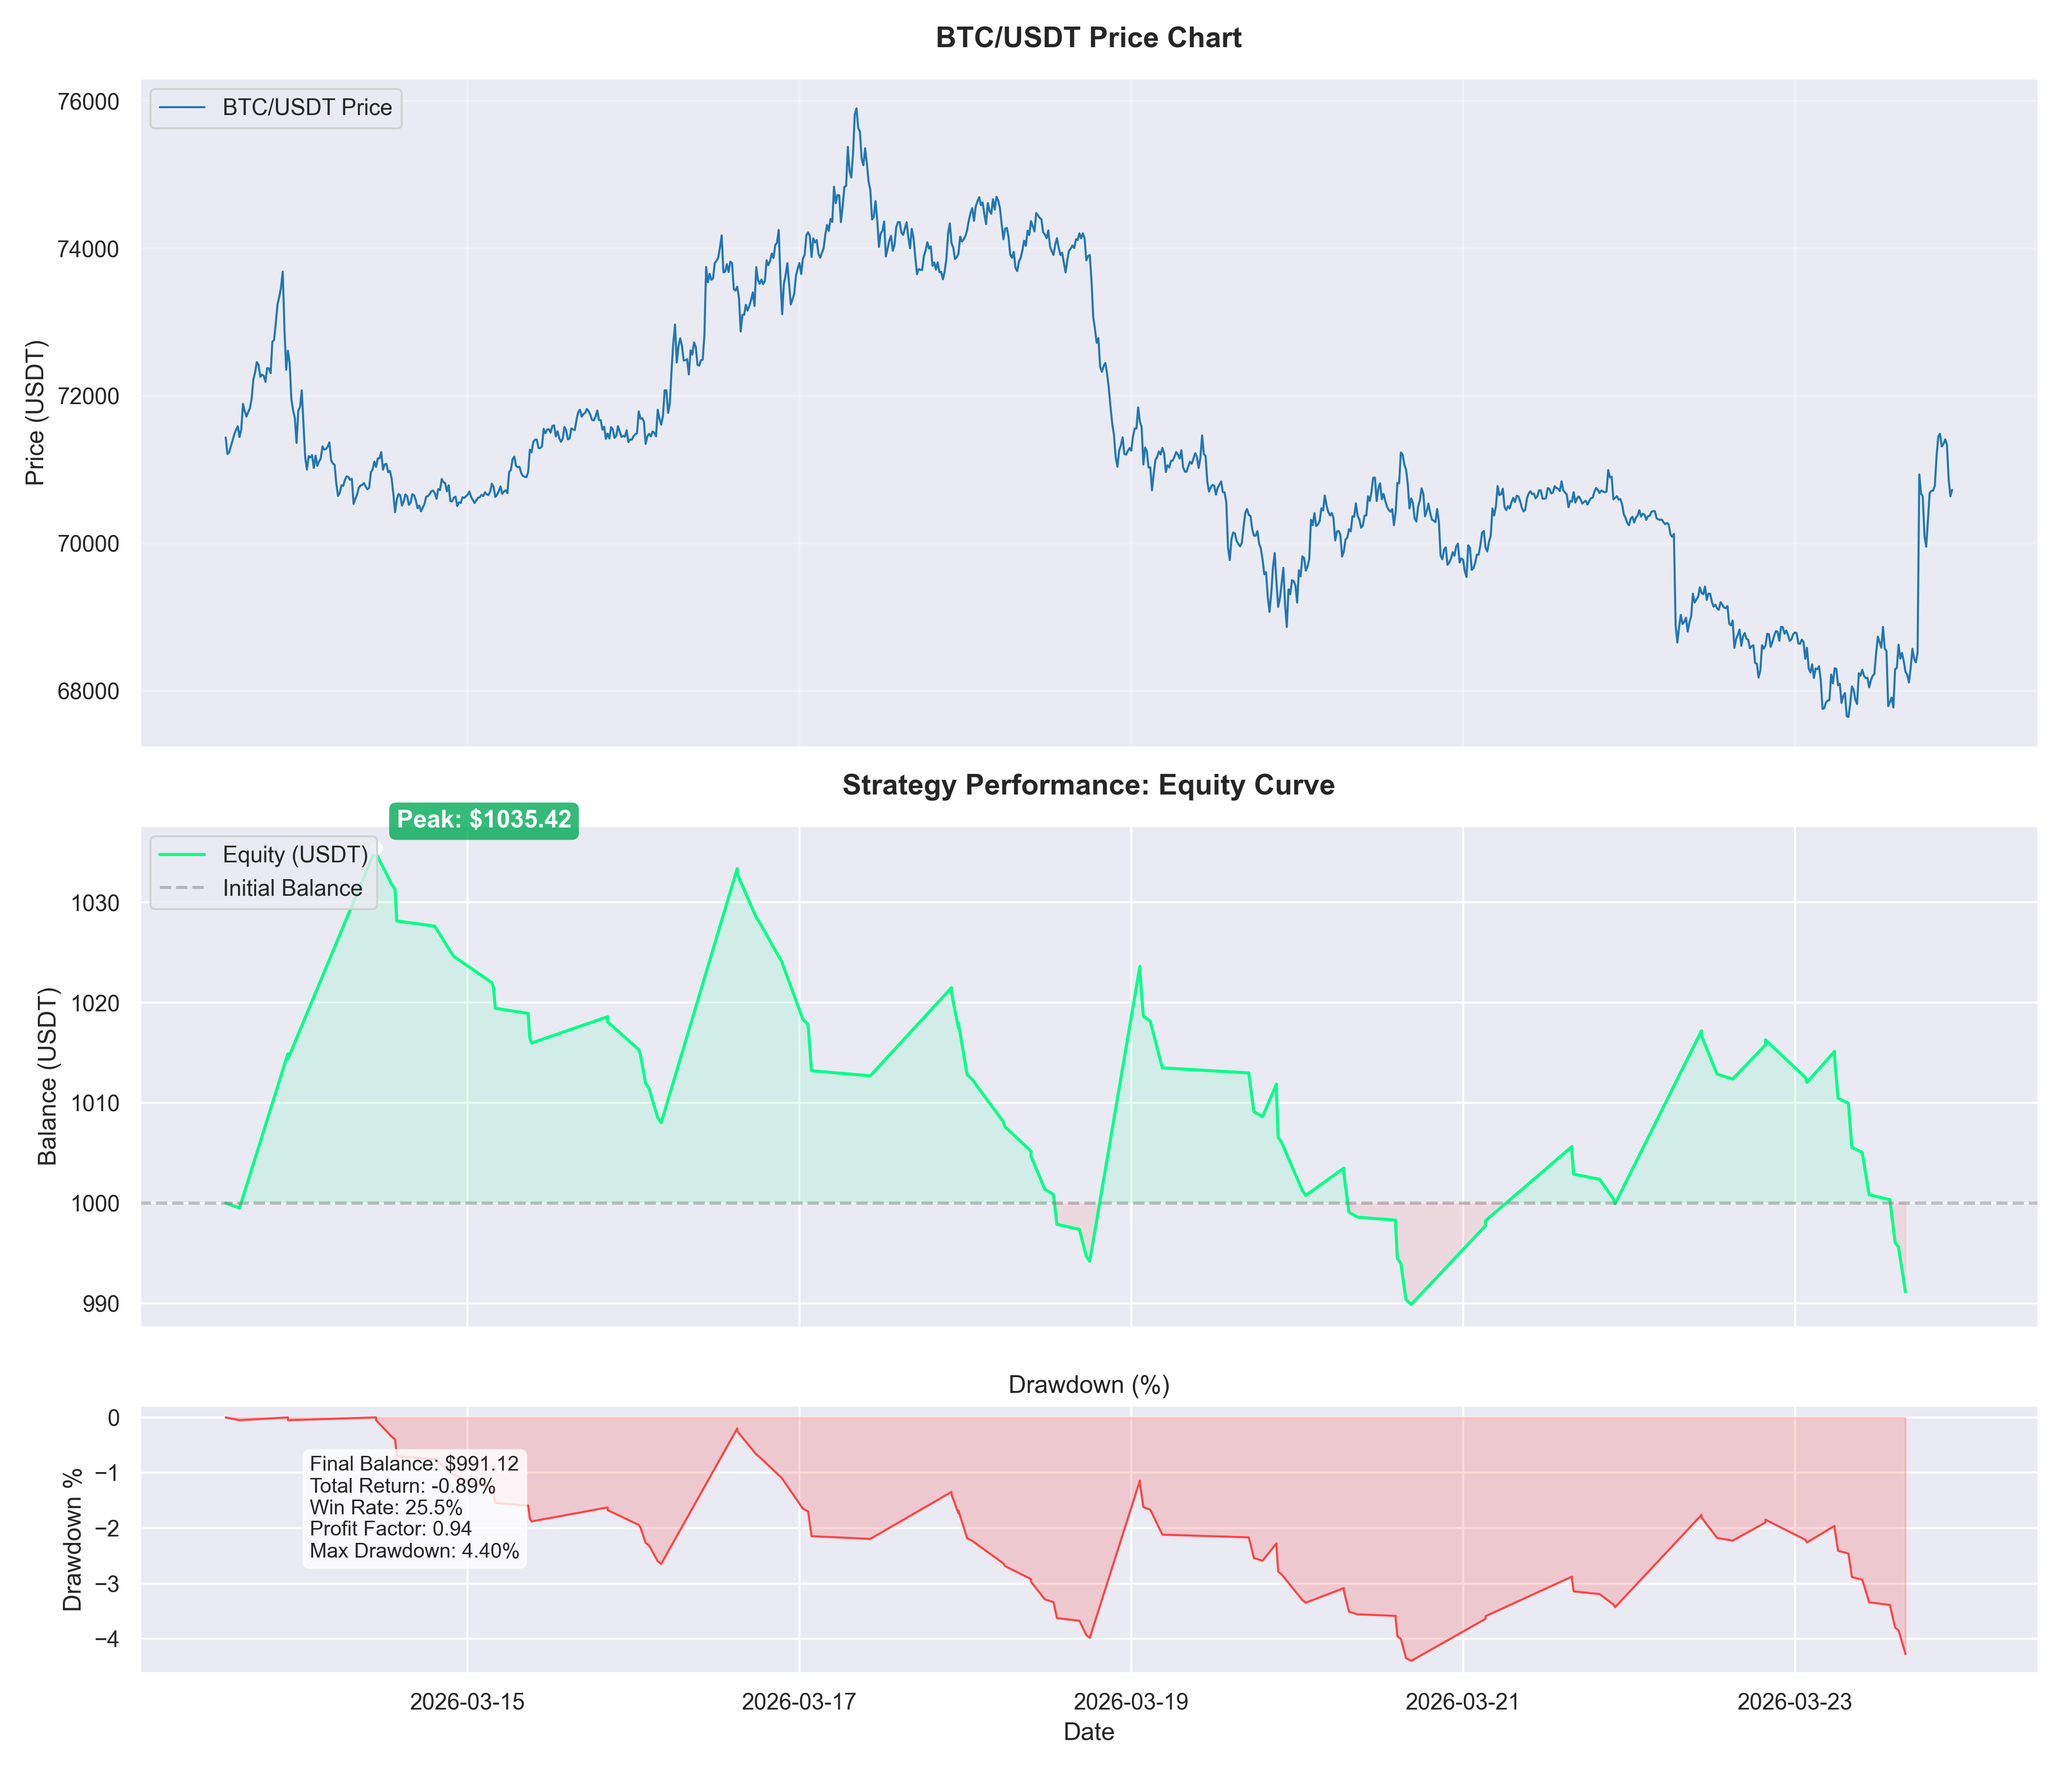
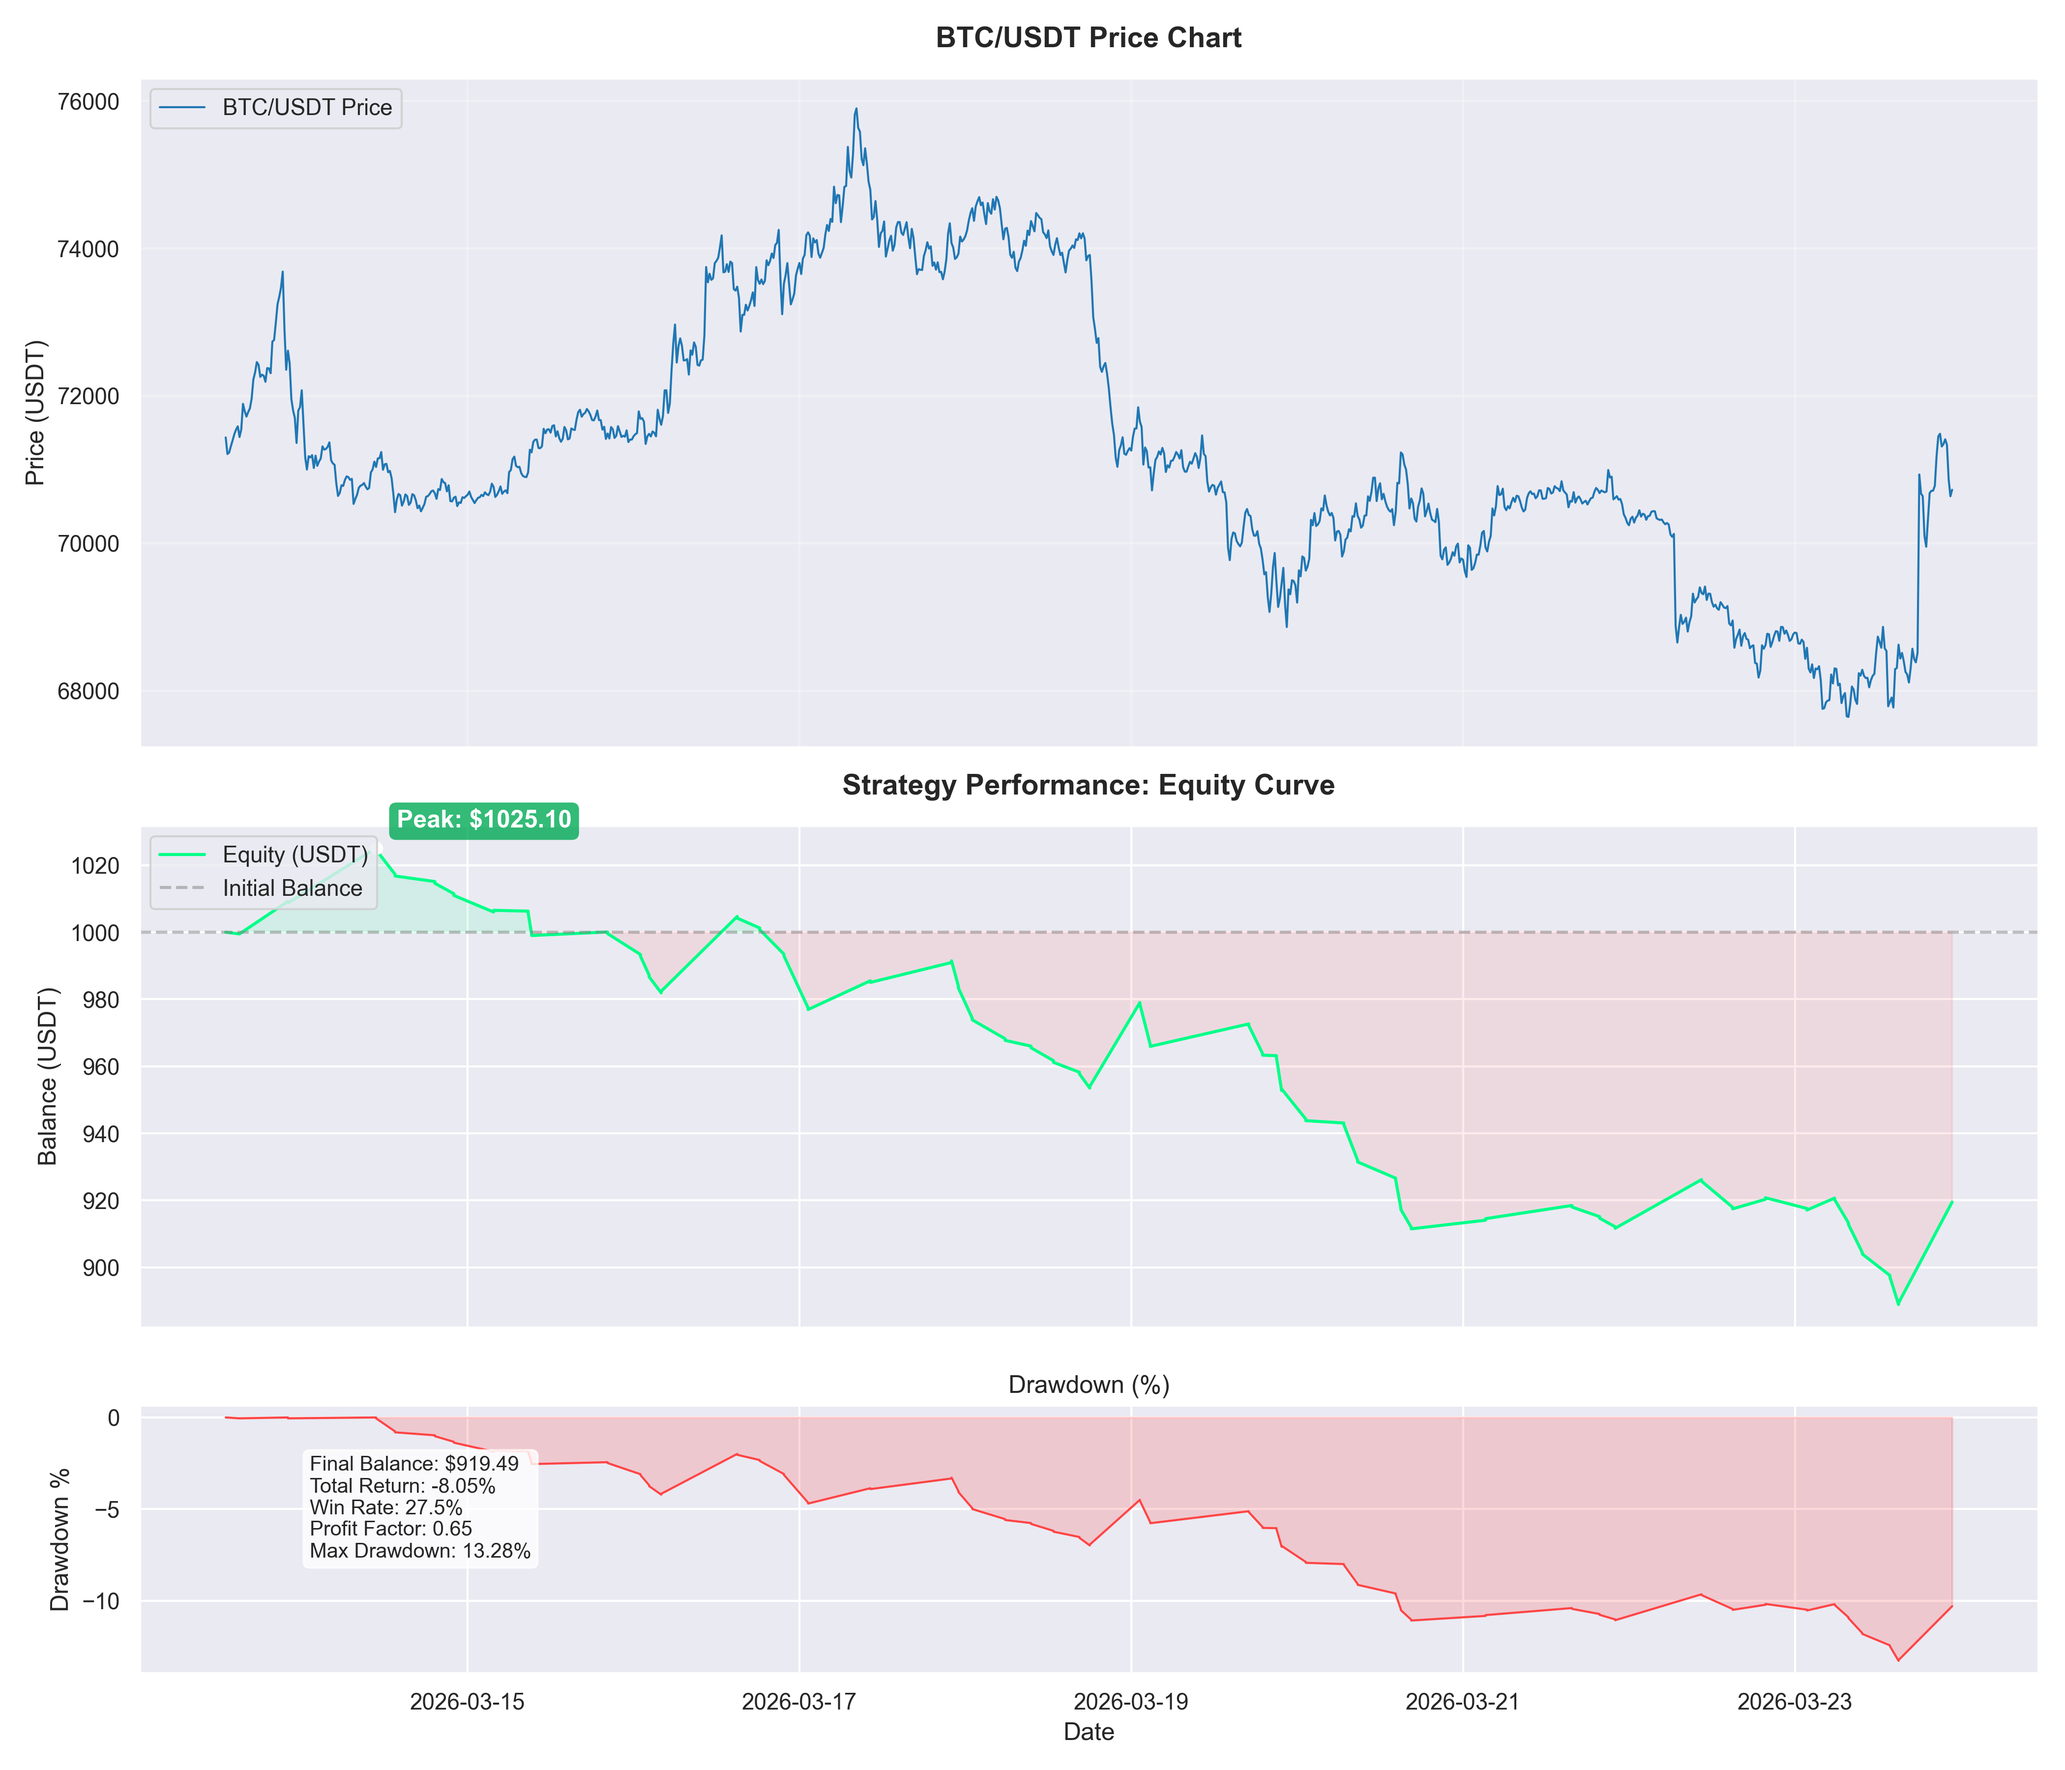
feat: Implement a backtesting module for Binance futures, including data loading, trade simulation, and performance reporting, with an updated gitignore.

diff --git a/module/backtest/simulator.py b/module/backtest/simulator.py
@@ -135,7 +135,7 @@ class Simulator:
             # Signal candle = arr[i-1] (last CLOSED candle)
             # Execution price = close of that same candle — mirrors live bot
             # which calls open_position(close_price) where close_price = df.iloc[-2]["close"]
-            signal_close = arr_close[i - 1]
+            signal_close = arr_close[i - 2]
             exec_price = signal_close  # enter/exit at signal candle close
             exec_time = arr_timestamp[i - 1]  # timestamp of the signal candle
 
@@ -188,18 +188,23 @@ class Simulator:
             # 1. TAKE PROFIT CHECK (candle-close price)
             # ----------------------------------------------------------
             if self.use_takeprofit and position_amt != 0:
-                tp_hit = (
-                    (position_amt > 0 and signal_close >= take_profit_price) or
-                    (position_amt < 0 and signal_close <= take_profit_price)
+                tp_hit = (position_amt > 0 and signal_close >= take_profit_price) or (
+                    position_amt < 0 and signal_close <= take_profit_price
                 )
                 if tp_hit:
                     pnl = (
-                        self._close_long_pnl(take_profit_price, entry_price, position_amt)
+                        self._close_long_pnl(
+                            take_profit_price, entry_price, position_amt
+                        )
                         if position_amt > 0
-                        else self._close_short_pnl(take_profit_price, entry_price, position_amt)
+                        else self._close_short_pnl(
+                            take_profit_price, entry_price, position_amt
+                        )
                     )
                     balance += pnl
-                    type_str = "TAKE_PROFIT_LONG" if position_amt > 0 else "TAKE_PROFIT_SHORT"
+                    type_str = (
+                        "TAKE_PROFIT_LONG" if position_amt > 0 else "TAKE_PROFIT_SHORT"
+                    )
                     trades.append(
                         {
                             "time": exec_time,
@@ -215,7 +220,11 @@ class Simulator:
             # ----------------------------------------------------------
             # 2. STOP LOSS CHECK (candle-close price)
             # ----------------------------------------------------------
-            if self.use_stoploss and position_amt > 0 and signal_close <= stop_loss_price:
+            if (
+                self.use_stoploss
+                and position_amt > 0
+                and signal_close <= stop_loss_price
+            ):
                 pnl = self._close_long_pnl(stop_loss_price, entry_price, position_amt)
                 balance += pnl
                 type_str = (
@@ -233,7 +242,11 @@ class Simulator:
                 is_breakeven_activated = False
                 continue
 
-            elif self.use_stoploss and position_amt < 0 and signal_close >= stop_loss_price:
+            elif (
+                self.use_stoploss
+                and position_amt < 0
+                and signal_close >= stop_loss_price
+            ):
                 pnl = self._close_short_pnl(stop_loss_price, entry_price, position_amt)
                 balance += pnl
                 type_str = (
@@ -293,7 +306,8 @@ class Simulator:
                 # the same close price (ST flipped, open SHORT right away)
                 # ----------------------------------------------------------
                 rev_signal, rev_size, _ = evaluate_signal(
-                    df_window, 0,
+                    df_window,
+                    0,
                     use_ema_filter=self.use_ema_filter,
                     use_volume_filter=self.use_volume_filter,
                     use_htf_filter=self.use_htf_filter,
@@ -325,7 +339,8 @@ class Simulator:
                 # the same close price (ST flipped, open LONG right away)
                 # ----------------------------------------------------------
                 rev_signal, rev_size, _ = evaluate_signal(
-                    df_window, 0,
+                    df_window,
+                    0,
                     use_ema_filter=self.use_ema_filter,
                     use_volume_filter=self.use_volume_filter,
                     use_htf_filter=self.use_htf_filter,
